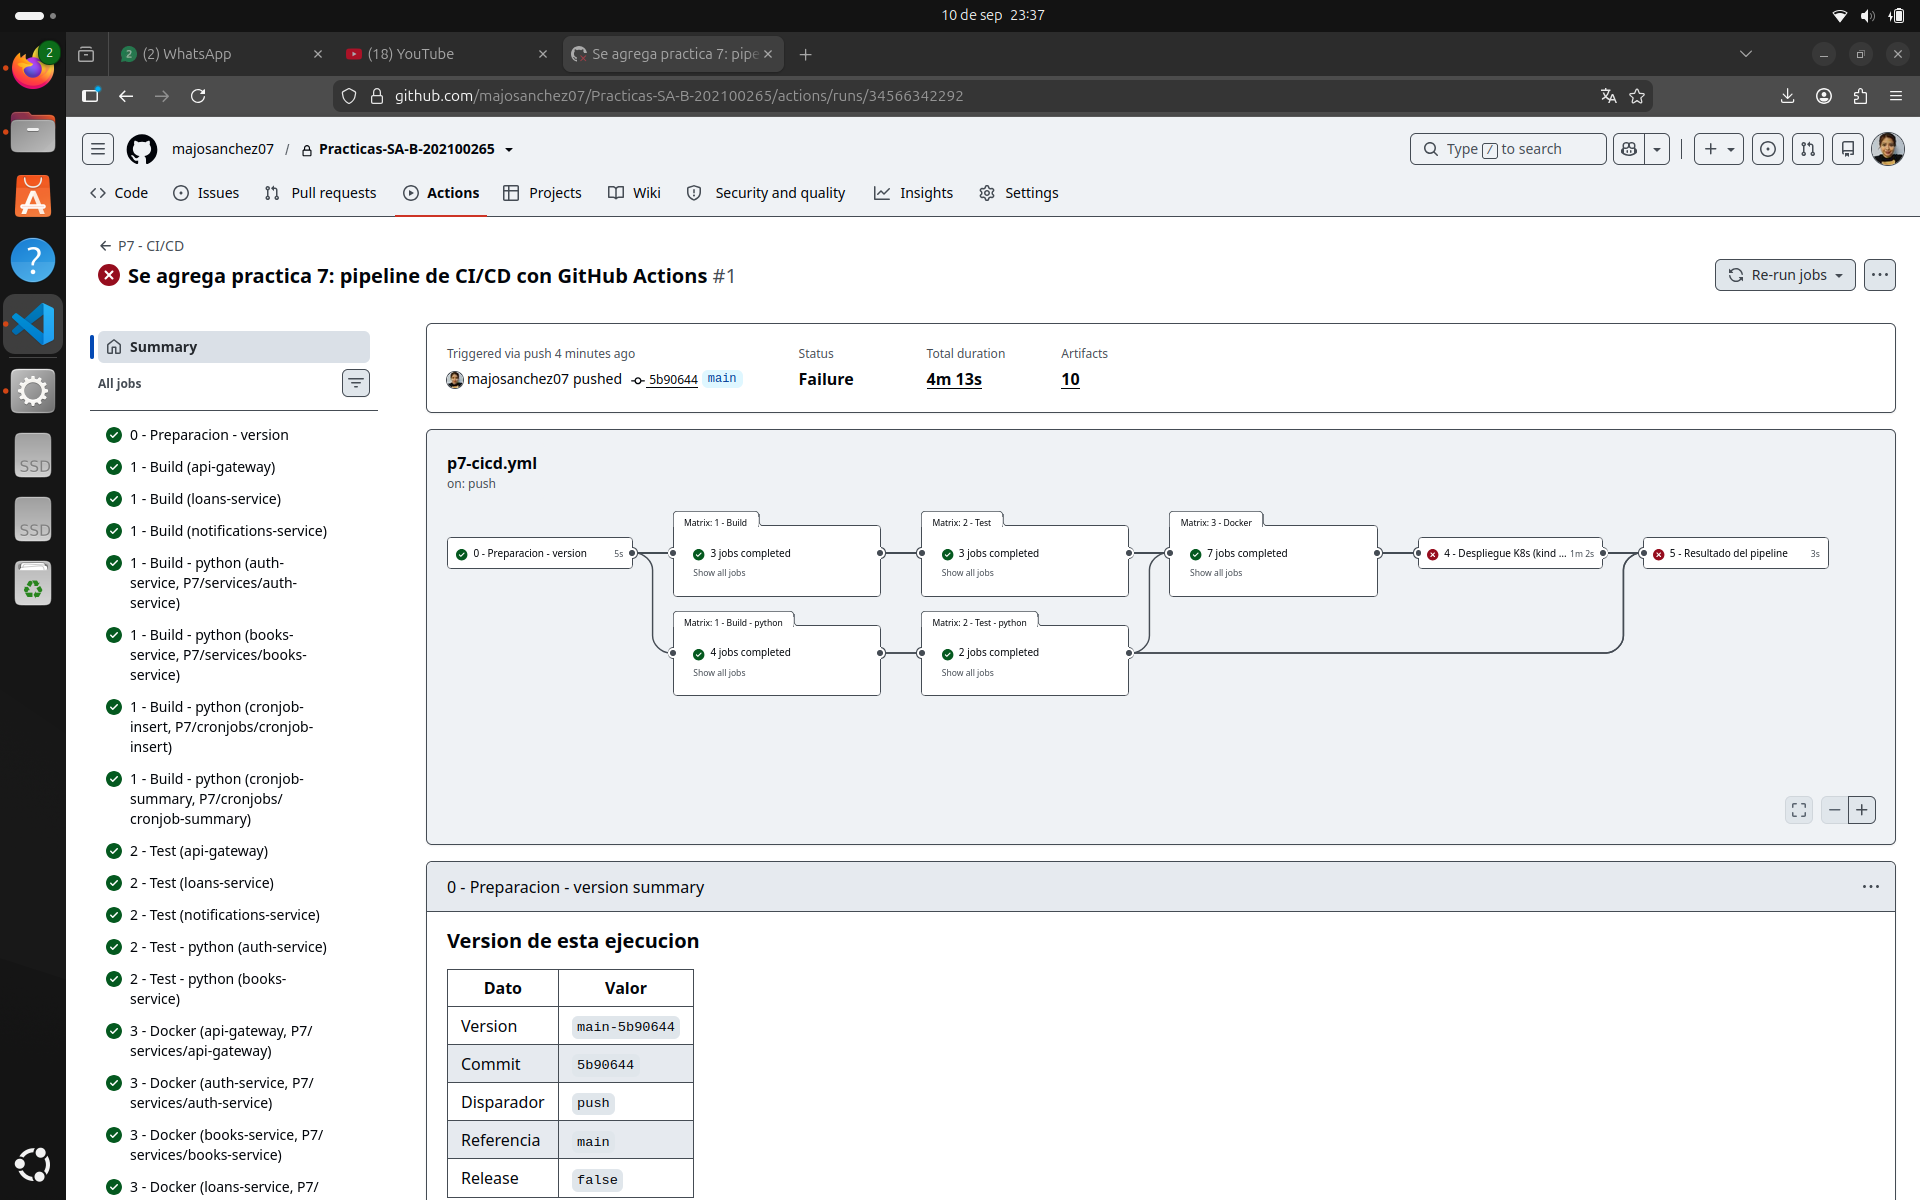
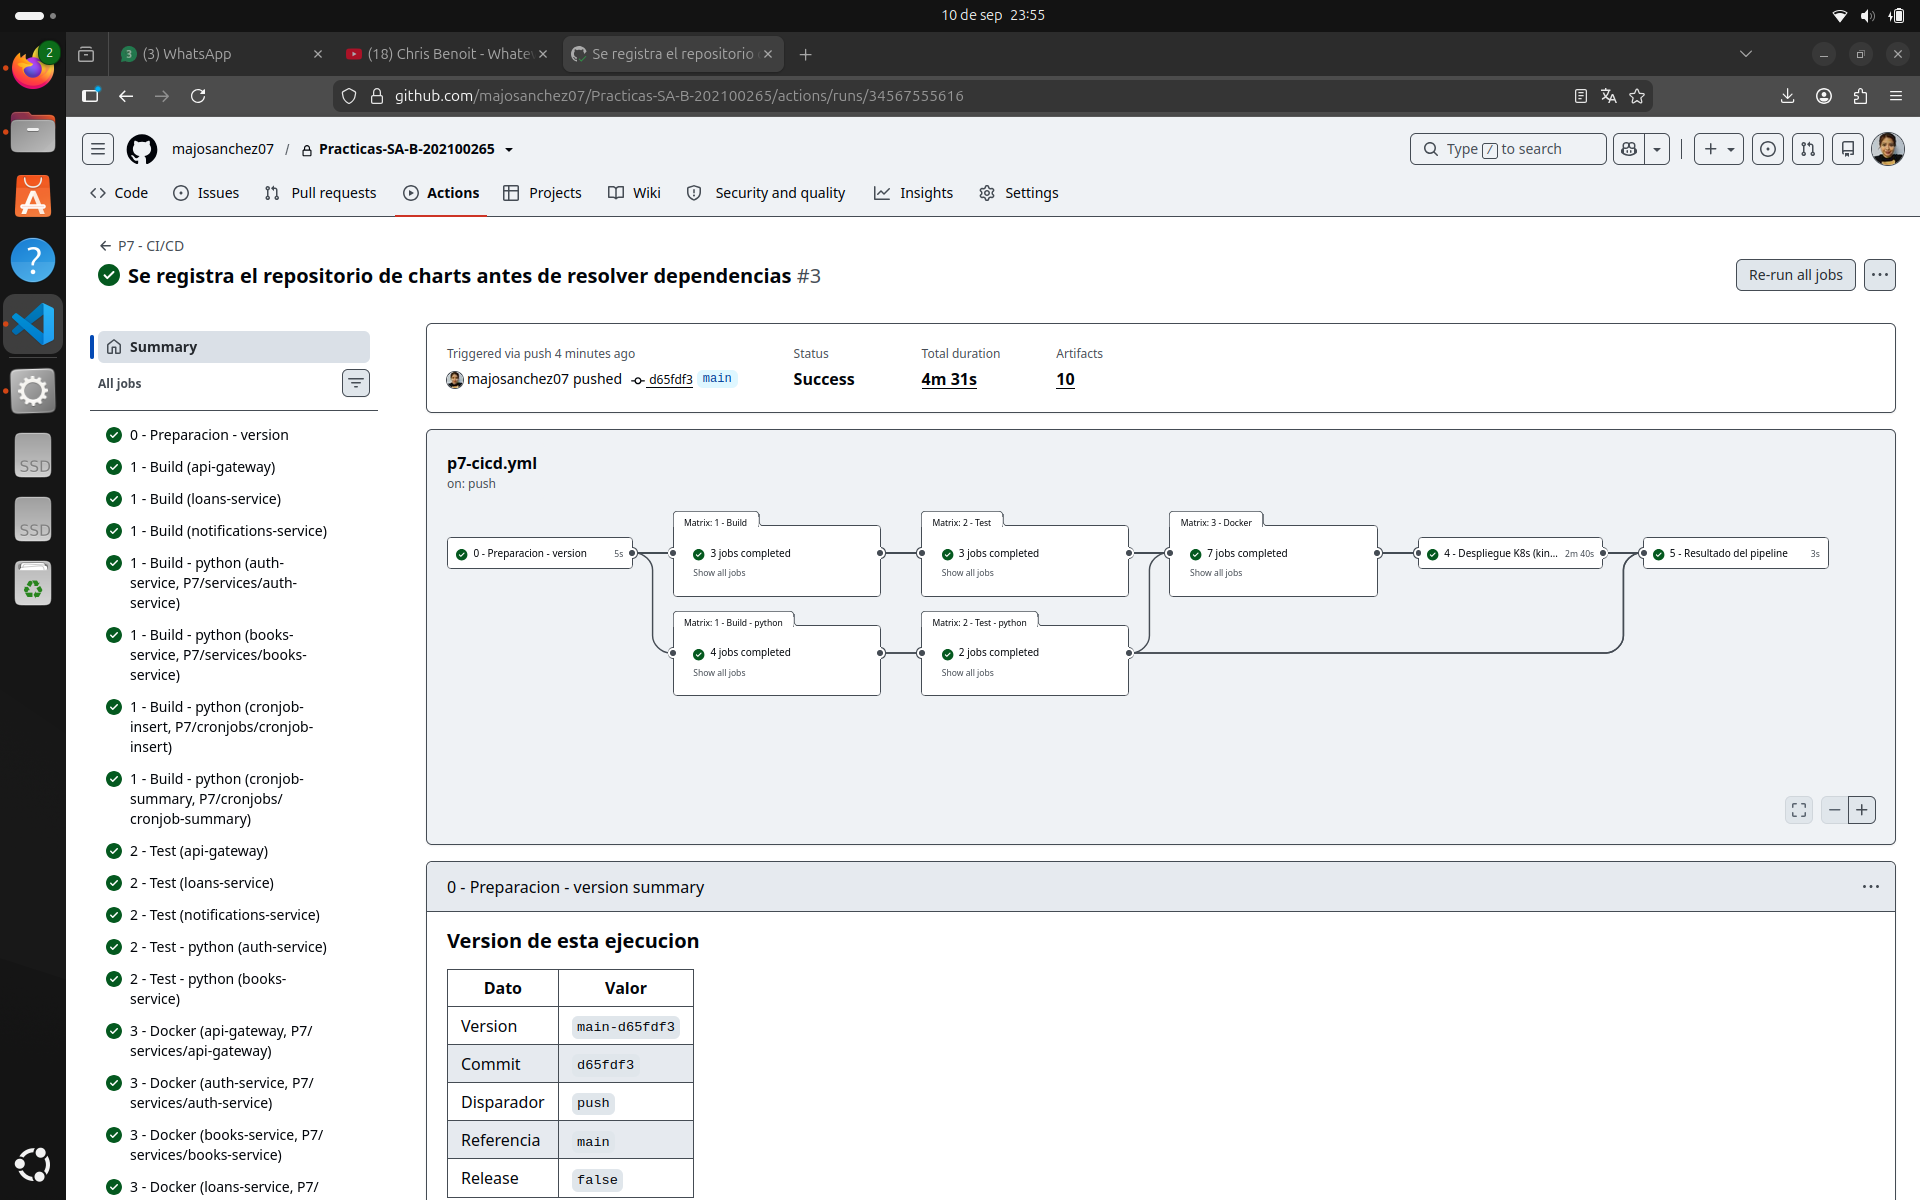
Se documentan las evidencias del pipeline en verde
Ejecucion #3 (commit d65fdf3): las seis etapas correctas en 4m 31s, con las
siete imagenes publicadas en GHCR y el despliegue en Kubernetes verificado
en 2m 40s.

Se agregan las capturas del grafo completo, de la matriz de dockerizacion y
del detalle del job de despliegue, y se documentan los dos fallos que costo
resolver: los .tgz de los subcharts no versionados y el repositorio de charts
sin registrar. Ambos tenian la misma causa de fondo, que el runner arranca
limpio y una maquina de trabajo no.

diff --git a/P7/docs/evidencias/01-evidencias.md b/P7/docs/evidencias/01-evidencias.md
@@ -10,28 +10,31 @@ despliegue en Kubernetes.
 
 ## 1. Ejecución del pipeline en GitHub Actions
 
-Las capturas de la pestaña **Actions** están en [`capturas/`](capturas/),
-tomadas de la ejecución del pipeline sobre el commit `5b90644` de la rama `main`.
+**Ejecución #3 — commit `d65fdf3` — estado: Success — duración total: 4m 31s.**
 
-| Captura | Qué evidencia |
-|---|---|
-| `00-pipeline-en-ejecucion.png` | El grafo del pipeline mientras corre, con las etapas encadenadas |
-| `01-grafo-pipeline.png` | El grafo completo al finalizar |
-| `02-etapa-test.png` | El detalle de la etapa de pruebas |
-| `03-etapa-docker.png` | La construcción y publicación de las 7 imágenes |
-| `04-paquetes-ghcr.png` | Las imágenes publicadas en GHCR con sus etiquetas |
-| `05-etapa-despliegue.png` | El despliegue en Kubernetes y su verificación |
-| `06-resumen.png` | El resumen del pipeline con el estado de cada etapa |
+El pipeline se disparó solo al hacer `push` sobre `main`, recorrió sus seis
+etapas y terminó en verde, publicando 10 artefactos.
+
+![Grafo del pipeline completo](capturas/01-grafo-pipeline.png)
+
+| Etapa | Jobs | Resultado |
+|---|---|---|
+| 0 · Preparación - versión | 1 | Correcto (5s) |
+| 1 · Build | 3 Node + 4 Python | 7/7 correctos |
+| 2 · Test | 3 Node + 2 Python | 5/5 correctos |
+| 3 · Docker | 7 componentes | 7/7 publicados |
+| 4 · Despliegue K8s | 1 | Correcto (2m 40s) |
+| 5 · Resultado | 1 | Correcto (3s) |
 
 ### Etapa 0 — la versión de la ejecución
 
-La primera etapa calcula la versión que compartirán las siete imágenes, y la
+La primera etapa calcula la versión que compartirán las siete imágenes y la
 publica en el resumen del workflow:
 
 | Dato | Valor |
 |---|---|
-| Version | `main-5b90644` |
-| Commit | `5b90644` |
+| Version | `main-d65fdf3` |
+| Commit | `d65fdf3` |
 | Disparador | `push` |
 | Referencia | `main` |
 | Release | `false` |
@@ -39,11 +42,70 @@ publica en el resumen del workflow:
 Que el disparador sea `push` sobre `main` es justamente lo que el enunciado pide
 demostrar: el pipeline arranca solo al integrar un cambio, sin lanzarlo a mano.
 
-Cada ejecución del pipeline publica además un artefacto
+### Etapa 3 — las siete imágenes publicadas en GHCR
+
+La matriz construye y publica los siete componentes en paralelo. Los siete
+terminaron correctamente, entre 22 y 43 segundos cada uno:
+
+![Matriz de dockerización](capturas/03-etapa-docker.png)
+
+```
+3 - Docker (api-gateway)            43s
+3 - Docker (auth-service)           31s
+3 - Docker (books-service)          22s
+3 - Docker (cronjob-insert)         33s
+3 - Docker (cronjob-summary)        31s
+3 - Docker (loans-service)          34s
+3 - Docker (notifications-service)  40s
+```
+
+### Etapa 4 — el despliegue automático en Kubernetes
+
+El job completo, paso a paso, en 2m 40s:
+
+![Detalle del despliegue](capturas/05-etapa-despliegue.png)
+
+| Paso | Duración |
+|---|---|
+| Crear el clúster kind | 52s |
+| Instalar Helm | 2s |
+| Verificar que el clúster responde | 0s |
+| Crear el namespace y el secreto de acceso a GHCR | 1s |
+| Descargar las dependencias del chart | 16s |
+| **Desplegar la plataforma con Helm** | **1m 14s** |
+| **Verificar el estado del despliegue** | **3s** |
+| Recolectar evidencia del despliegue | 2s |
+| Publicar la evidencia como artefacto | 1s |
+
+El paso «Diagnóstico en caso de fallo» aparece omitido porque está condicionado
+con `if: failure()`: al no haber fallo, no se ejecutó. Que esté en gris es en sí
+mismo evidencia de que el despliegue salió bien.
+
+### Lo que costó dejar el pipeline en verde
+
+Dos fallos, ambos por la misma causa de fondo: **el runner arranca limpio y una
+máquina de trabajo no**.
+
+1. `found in Chart.yaml, but missing in charts/ directory: postgresql, rabbitmq`
+   — los `.tgz` de los subcharts no se versionan. En local ya estaban
+   descargados; el runner clona el repositorio y no los tiene. Se resolvió
+   agregando `helm dependency build`.
+
+2. `no repository definition for https://charts.bitnami.com/bitnami` — resolver
+   las dependencias exige además que el repositorio de charts esté registrado.
+   En local lo estaba desde hacía tiempo; el runner no. Se resolvió agregando
+   `helm repo add bitnami` y `helm repo update` antes del build.
+
+Los dos casos son un buen ejemplo de por qué el pipeline aporta algo que una
+prueba local no puede dar: obliga a que el proceso funcione desde cero, sin
+apoyarse en nada que alguien haya dejado configurado a mano en su equipo.
+
+### Artefactos generados
+
+Cada ejecución publica 10 artefactos descargables desde la página de la corrida:
+los reportes de cobertura de los servicios Python y el paquete
 `evidencia-despliegue-<sha>` con el estado completo del clúster, recolectado por
-[`recolectar-evidencia.sh`](../../scripts/recolectar-evidencia.sh). Ese artefacto
-es descargable desde la página de la ejecución y contiene lo mismo que el bloque
-siguiente.
+[`recolectar-evidencia.sh`](../../scripts/recolectar-evidencia.sh).
 
 ---
 

diff --git a/P7/README.md b/P7/README.md
@@ -11,6 +11,11 @@ Kubernetes, sin intervención manual.
 commit → versión → build → test → docker + push a GHCR → despliegue k8s → verificación
 ```
 
+**Estado: pipeline verde de punta a punta.** Ejecución #3 (commit `d65fdf3`):
+las seis etapas correctas en 4m 31s, con las 7 imágenes publicadas en GHCR y el
+despliegue en Kubernetes verificado en 2m 40s. Evidencia en
+[`docs/evidencias/`](docs/evidencias/).
+
 ---
 
 ## Contenido
